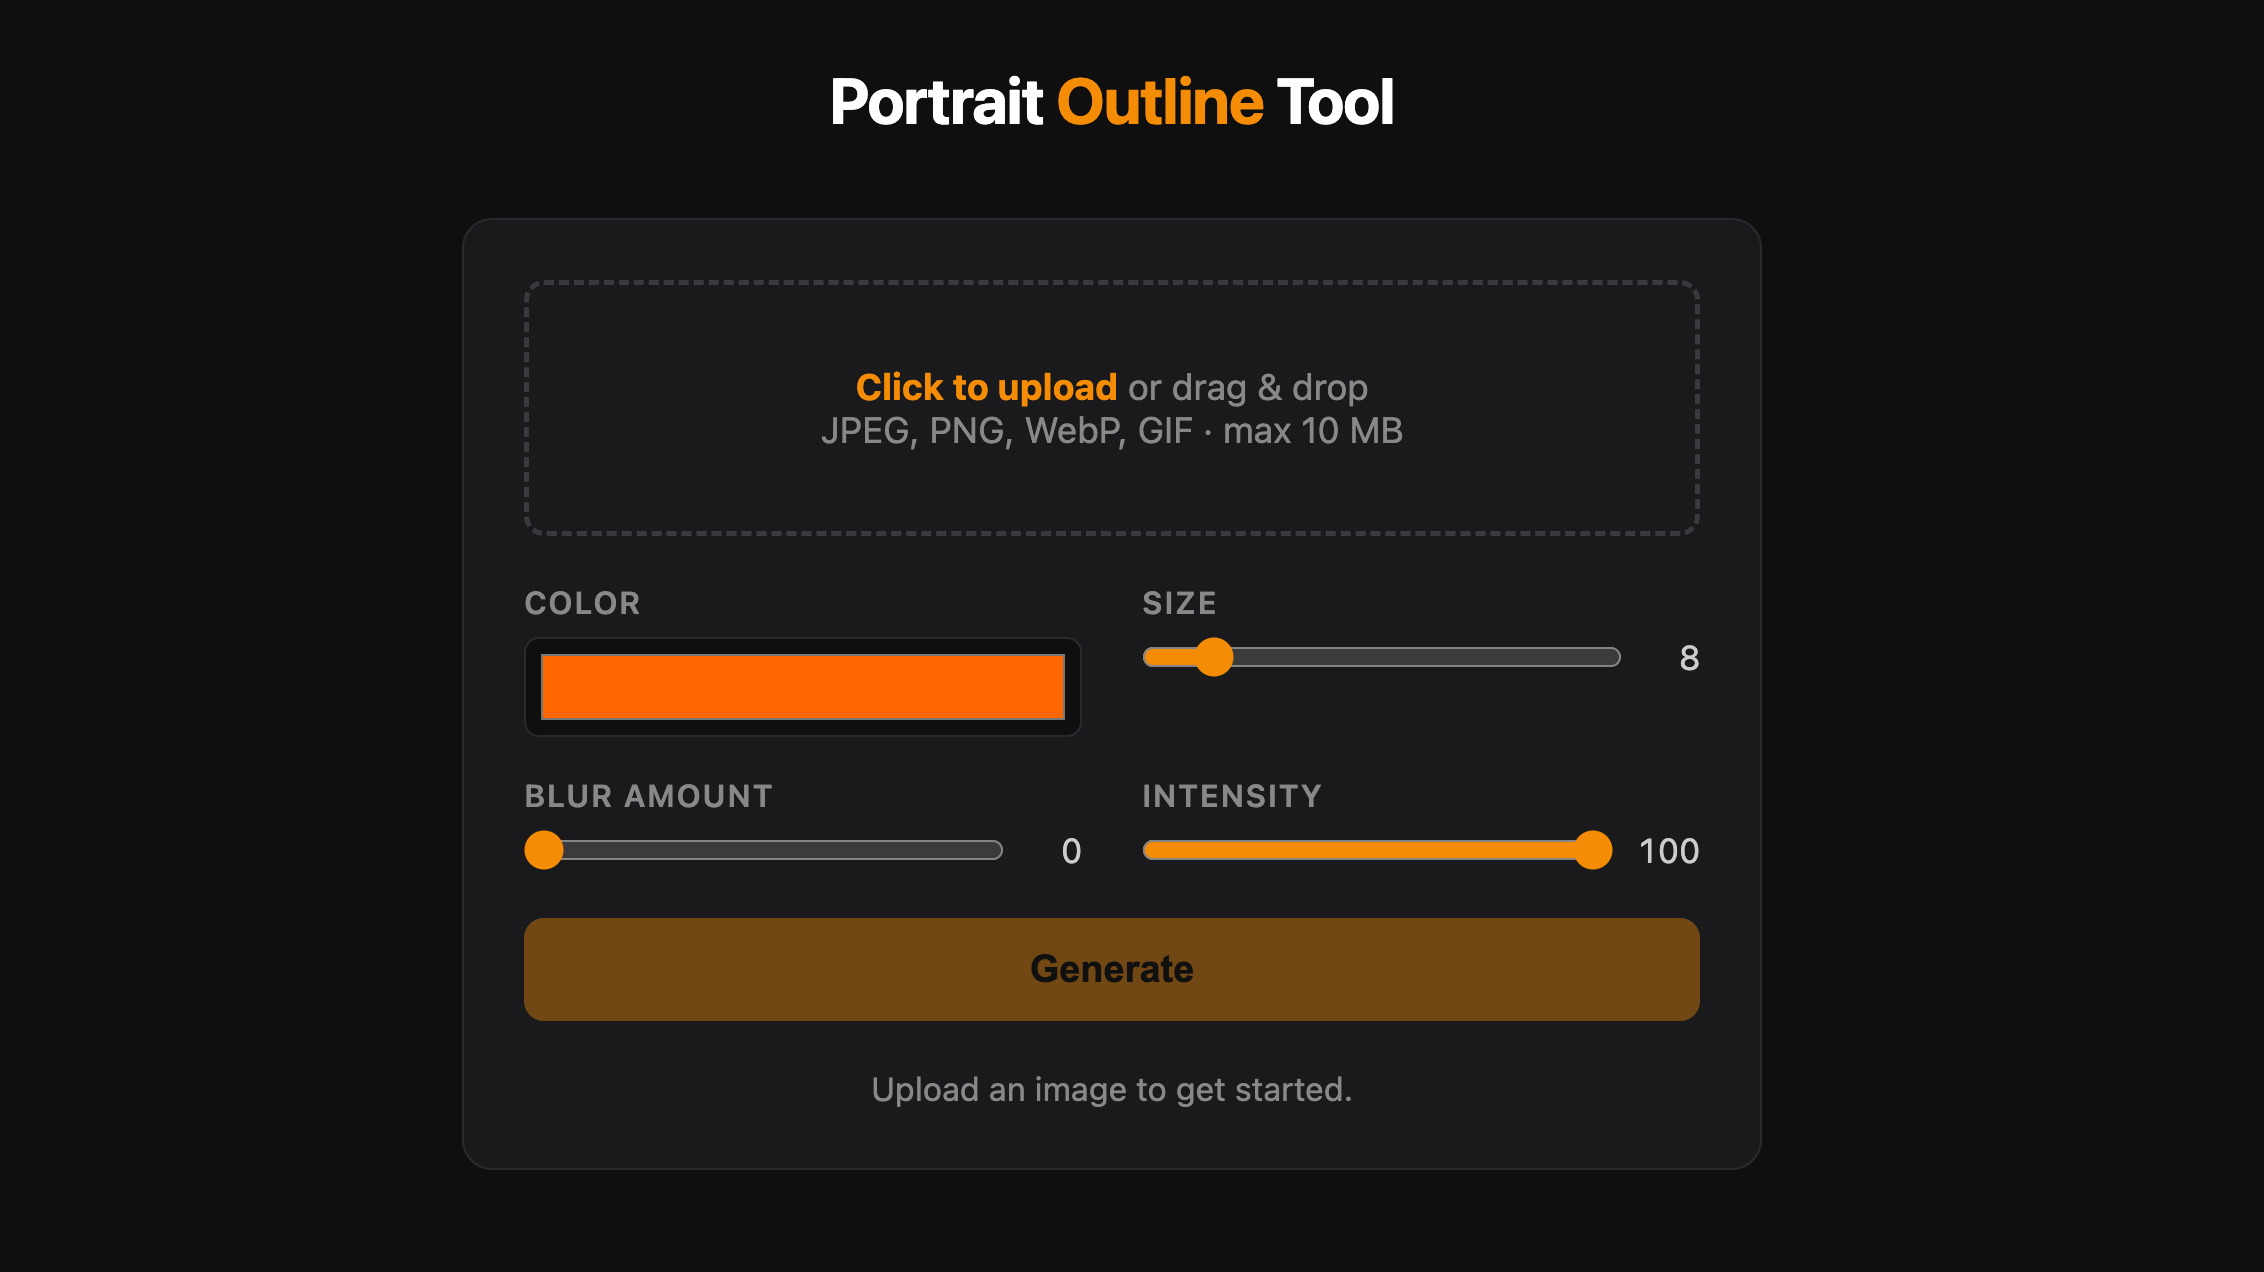
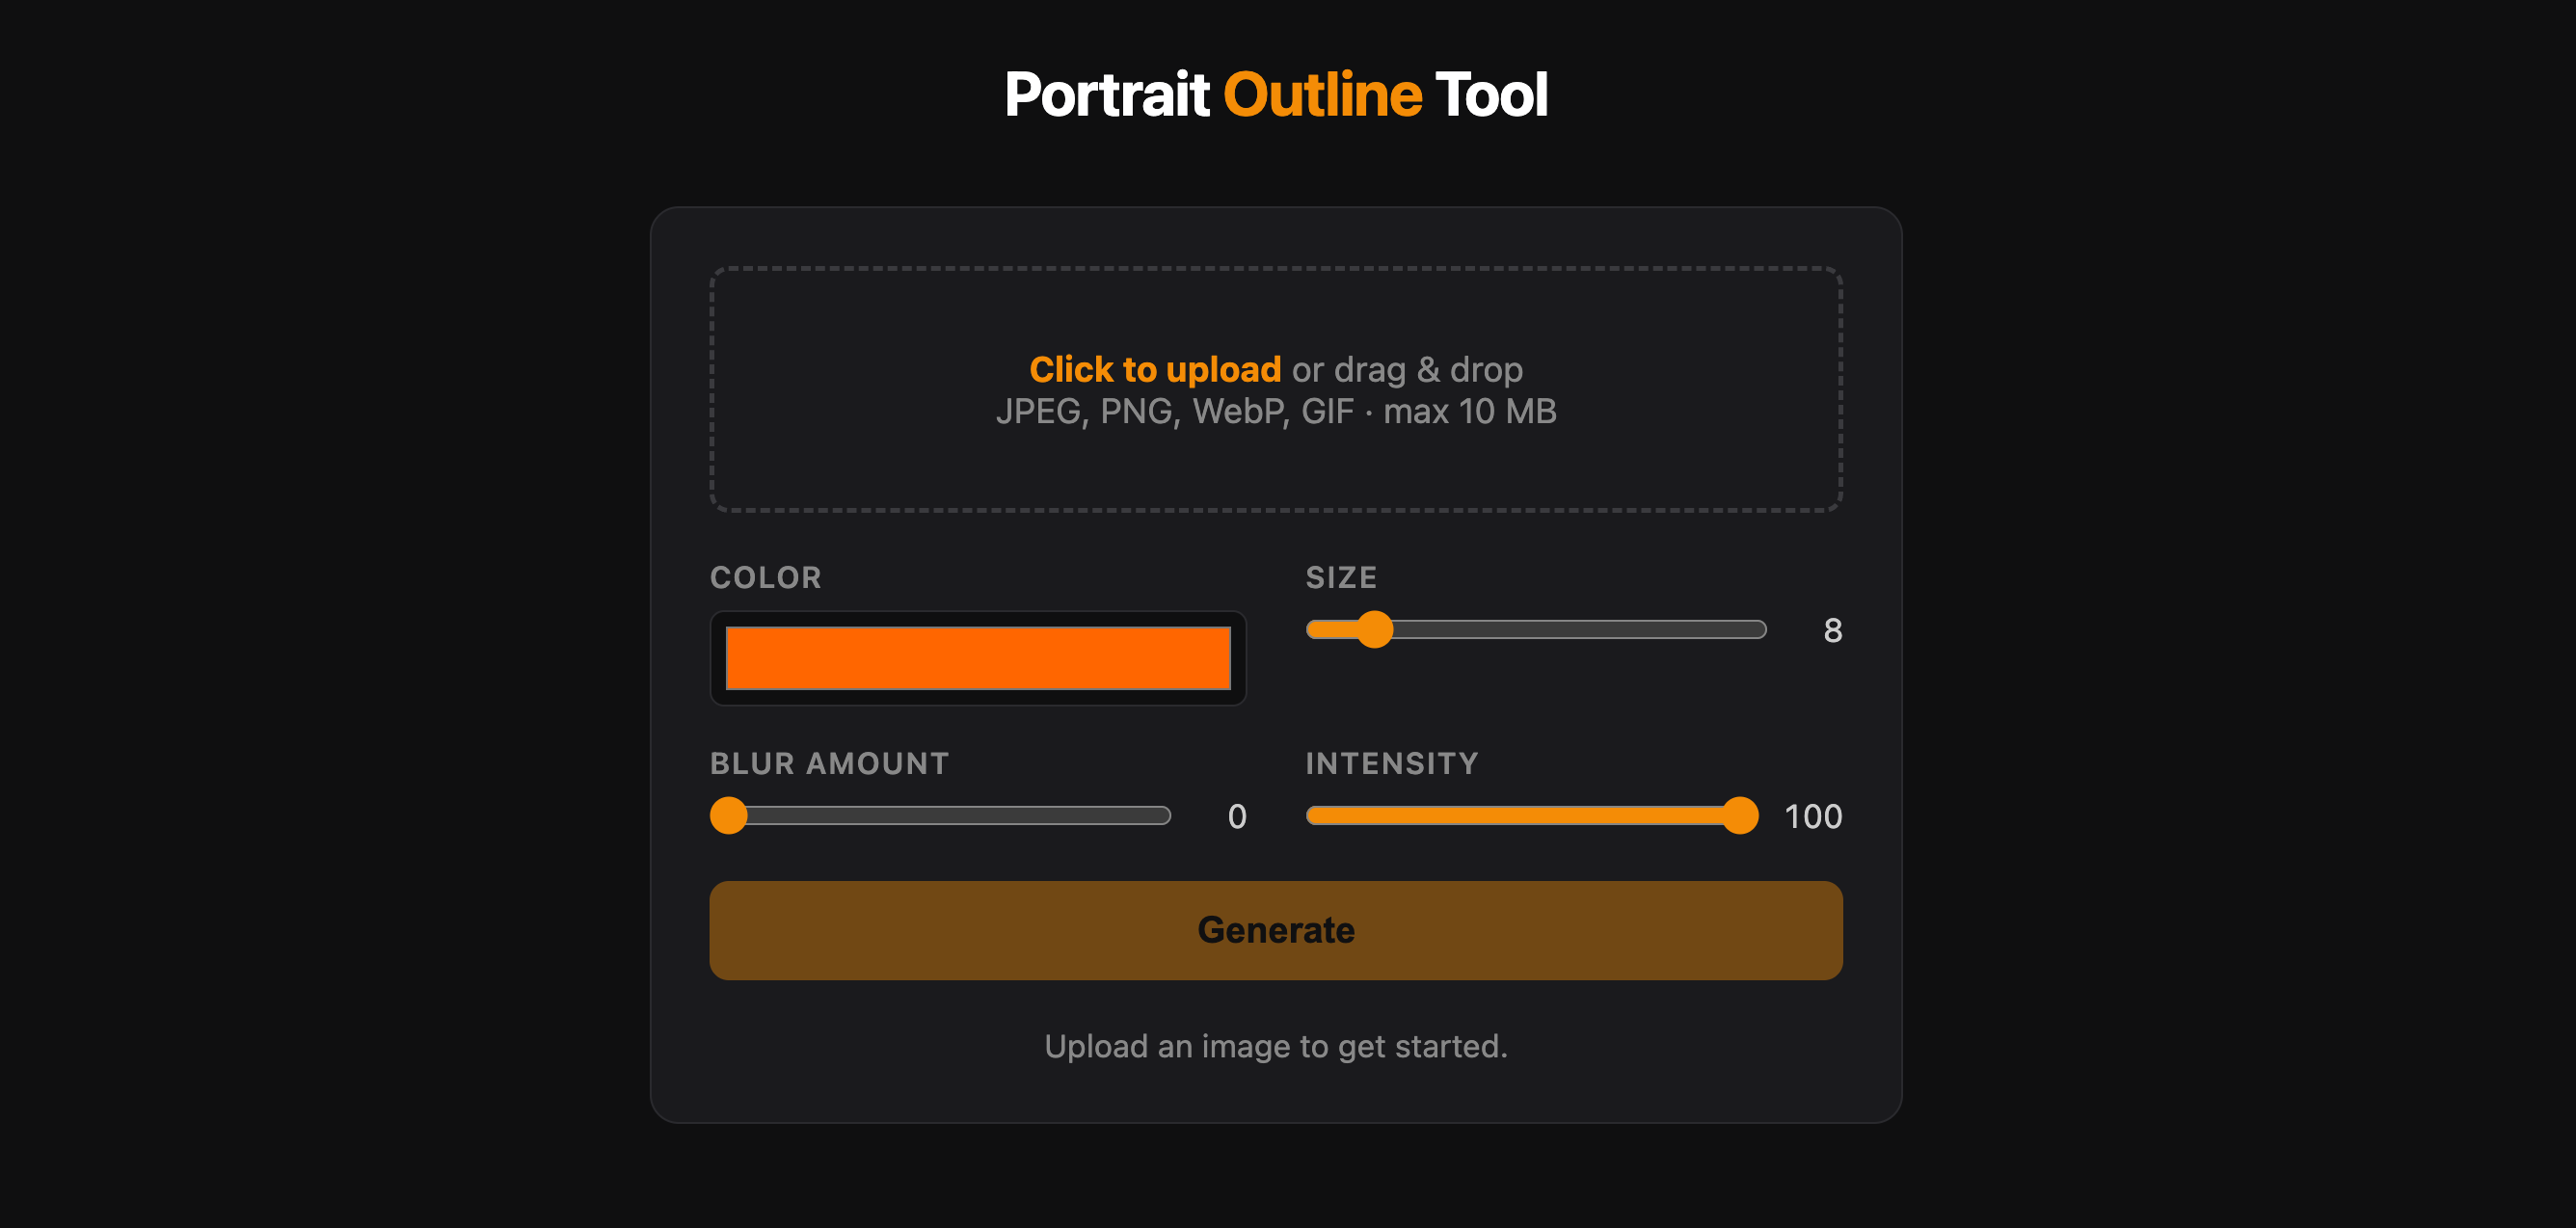
feat: update blog post with Notion content and images

diff --git a/src/data/blog/i-replaced-canva-pro-with-a-cloudflare-worker/i-replaced-canva-pro-with-a-cloudflare-worker.md b/src/data/blog/i-replaced-canva-pro-with-a-cloudflare-worker/i-replaced-canva-pro-with-a-cloudflare-worker.md
@@ -10,17 +10,17 @@ tags:
   - typescript
 ---
 
-Every week I make YouTube thumbnails. Every week I opened Canva, paid for the Pro plan, removed a background, and added a colored outline around myself. It worked fine — until I realized I work at Cloudflare and the thing I was paying for is a single line of config.
+Every week I make YouTube thumbnails. Each time I open Canva, upload a selfie, remove the background, and add a colored outline around myself. It was tedious though. Seemed like something I could automate. Not to mention, I've been paying for Canva pro for this feature. I've wanted to do replace this for a while, but just hadn't gotten around to it.
 
-This is the story of building a portrait outline tool on Cloudflare Workers: what it does, how the pieces fit together, and the things that went wrong along the way.
+Well, today I decided to do it. Here's how I build a portrait outline tool on Cloudflare Workers: what it does, how the pieces fit together, and the things that went wrong along the way.
 
 **[Try the live demo →](https://outline-tool.examples.workers.dev)**
 
 ## What the tool does
 
-Upload a portrait photo. The background disappears. You get four sliders — size, blur amount, color, and intensity — to draw a customizable outline around the subject. Download the result as a transparent PNG.
+The app takes a portrait image you upload and removes the background. Then, you get four sliders: size, blur amount, color, and intensity. Then, you can download the result as a transparent PNG.
 
-It's the same workflow as Canva's shadow/outline feature. The difference is you own it, it runs on infrastructure you're already paying for, and the background removal is powered by an AI model (BiRefNet) running through Workers AI.
+This is the same workflow as Canva's shadow/outline feature. The difference is I own it, and it runs on infrastructure I'm already using.
 
 ## Project setup
 
@@ -44,11 +44,11 @@ The whole project is one Worker with two bindings:
 ```
 
 - **`IMAGES`** — the Cloudflare Images binding, used for background removal
-- **`ASSETS`** — serves `public/index.html` as the frontend from the same Worker
+- **`ASSETS`** — serves static front assets (HTML and JS) as the frontend
 
 No separate frontend deployment. No Express server. Three files: `wrangler.jsonc`, `src/index.ts`, and `public/index.html`.
 
-Scaffold it with:
+Run the following command to scaffold this yourself:
 
 ```bash
 npm create cloudflare@latest -- outline-tool
@@ -56,7 +56,7 @@ cd outline-tool
 npm install --save-dev @cloudflare/workers-types typescript
 ```
 
-One important note before you start developing: **the Images binding requires remote mode**. Running `wrangler dev` without `--remote` gives you a local stub that silently does nothing. Add it to your dev script:
+One important note before you start developing: **the Images binding requires remote mode to work locally**. Running `wrangler dev` without `--remote` gives you a local stub that silently does nothing. Add `--remote` it to your dev script:
 
 ```json
 {
@@ -67,11 +67,11 @@ One important note before you start developing: **the Images binding requires re
 }
 ```
 
-I spent more time than I'd like to admit debugging why background removal wasn't working before I found this.
-
 ## Removing the background: one call to the Images binding
 
-This is the entire server side of the tool. The Cloudflare Images binding has a `segment: "foreground"` transform that replaces the background with transparent pixels. Under the hood it runs BiRefNet via Workers AI — you don't configure it, you don't pay per-call beyond standard Workers usage, and you don't touch a Python server.
+The Cloudflare Images binding has a `segment: "foreground"` transform that replaces the background with transparent pixels. Under the hood it runs BiRefNet via Workers AI. You don't configure it, you don't pay per-call beyond standard Workers usage, and you don't touch a Python server.
+
+Here's the root handler that forwards the incoming request to the `handleSegment` function.
 
 ```typescript
 // src/index.ts
@@ -95,7 +95,7 @@ export default {
 } satisfies ExportedHandler<Env>;
 ```
 
-The `/segment` handler accepts a multipart image upload, validates it, and runs the transform:
+The `handleSegment` handler accepts a multipart image upload, validates it, and runs the transform:
 
 ```typescript
 async function handleSegment(request: Request, env: Env): Promise<Response> {
@@ -144,19 +144,19 @@ Note that `.output()` returns a `Promise<ImageTransformationResult>` — you hav
 
 ## The frontend: drawing the outline on a canvas
 
-Workers Assets serves `public/index.html` directly from the same Worker — no CDN config, no separate deploy. The frontend POSTs to `/segment`, gets a transparent PNG back, decodes it into an `ImageBitmap`, and draws the outline on a `<canvas>`.
+Workers Assets serves `public/index.html` directly from the same Worker. The frontend POSTs to `/segment`, gets a transparent PNG back, decodes it into an `ImageBitmap`, and draws the outline on a `<canvas>`.
 
 ### Why the first approach looked bad
 
-My first attempt at the outline used a box dilation: for every transparent pixel, check a square neighborhood of radius `thickness` and paint it the outline color. It was about 20 lines of code and it ran fast.
+My (Claude's) first attempt at the outline used a box dilation: for every transparent pixel, check a square neighborhood of radius `thickness` and paint it the outline color. Whatever that means…
 
-It also looked terrible. On curved edges — a face, a shoulder, hair — a square kernel leaves gaps in diagonal areas. The outline doesn't follow the shape, it approximates it with right-angle artifacts.
+Regardless, it looked terrible. On curved edges (a face, a shoulder, hair) a square kernel leaves gaps in diagonal areas. The outline didn't follow the shape, and it looked poor.
+
+![Box dilation result — square artifacts on curved edges](./images/box-dilation-result.png)
 
 ### The fix: Euclidean distance transform
 
-The correct approach is a Euclidean distance transform. For every transparent pixel, compute the exact circular distance to the nearest foreground pixel. If that distance is less than or equal to `size`, paint it.
-
-This is O(w×h) using the Meijster algorithm — two passes, no neighborhood loops:
+My (Claude's) second approach was to use a Euclidean distance transform. For every transparent pixel, compute the exact circular distance to the nearest foreground pixel. If that distance is less than or equal to `size`, paint it.
 
 ```javascript
 // Build a binary foreground mask
@@ -220,15 +220,11 @@ ctx.globalAlpha = 1;
 ctx.drawImage(bitmap, 0, 0);
 ```
 
-Blur is applied *after* the hard ring is built, so `blur: 0` is a genuinely crisp edge. This is what Canva's "Blur amount" control does — it's independent of stroke size.
-
-### The shadow offset bug
-
-An earlier version used `shadowBlur` on an HTML canvas to generate the halo, then composited it into a solid color with `destination-in`. It produced a decent-looking stroke — except the stroke was offset from the subject by about 50px.
-
-The bug: the image was drawn at `(-pad, -pad)` with `shadowOffsetX/Y = pad` to shift the shadow into view. When the stroke layer was drawn at `(-pad, -pad)` on the output canvas to compensate, the offsets didn't cancel cleanly. The fix: draw the image at `(pad, pad)` with no shadow offsets, then crop back with `drawImage(offB, -pad, -pad)`. Consistent coordinate system, no offset math.
+Blur is applied *after* the hard ring is built, so `blur: 0` is a genuinely crisp edge. This is what Canva's "Blur amount" control does.
 
 ## Deploying
+
+Deploying is simple.
 
 ```bash
 npx wrangler deploy
@@ -240,11 +236,9 @@ Before deploying, make sure Image Transformations is enabled on your Cloudflare 
 
 ## What I took away from this
 
-- **The Images binding does more than resize.** `segment: "foreground"` is one of several transforms most developers don't know exist. There's also watermark compositing, automatic format conversion, and quality optimization. Worth reading the docs end to end.
-- **Workers Assets is underrated.** Serving a static frontend from the same Worker with no extra config means one deploy command, no CORS setup, no separate Cloudflare Pages project.
-- **`--remote` matters for AI-powered bindings.** Any binding that calls Workers AI under the hood won't work in local dev without `--remote`. The local stub doesn't error — it just does nothing, which is harder to debug.
+Pretty quick and easy and now I can remove that Canva subscription!
 
-The full source is on [GitHub](https://github.com/jamesqquick/outline-tool). The live demo is at [outline-tool.examples.workers.dev](https://outline-tool.examples.workers.dev) — try it with a headshot.
+The live demo is at [outline-tool.examples.workers.dev](https://outline-tool.examples.workers.dev). Try it with a headshot.
 
 ---
 
@@ -252,5 +246,4 @@ The full source is on [GitHub](https://github.com/jamesqquick/outline-tool). The
 
 - [Cloudflare Images binding docs](https://developers.cloudflare.com/images/optimization/transformations/bindings/)
 - [Images features — `segment` parameter](https://developers.cloudflare.com/images/optimization/features/#segment)
-- [Workers Assets docs](https://developers.cloudflare.com/workers/static-assets/)
-- [Source code on GitHub](https://github.com/jamesqquick/outline-tool)
+- [Source code](https://github.com/jamesqquick/outline-tool)